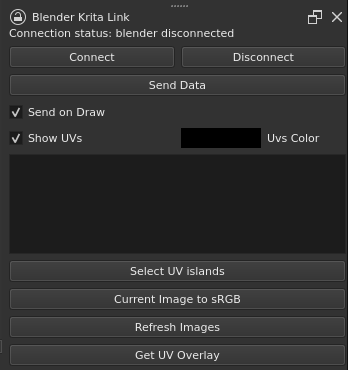
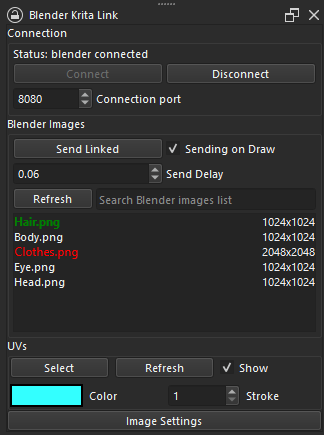
readme update, gif update, labels corrections, uv hash calculation change

diff --git a/KritaBlenderLink/ui/ImageItem.py b/KritaBlenderLink/ui/ImageItem.py
@@ -72,10 +72,10 @@ class ImageItem(QWidget):
 
         cmenu.addSection(self.image["name"])
         
-        openAct = cmenu.addAction("From Blender To new Layer")
-        linkImageAct = cmenu.addAction("Link Image")
-        unlinkImageAct = cmenu.addAction("Unlink Image")
-        openAsNewDocumentLinkAct = cmenu.addAction("Open in new Document and link")
+        openAct = cmenu.addAction("From Blender to new Layer")
+        linkImageAct = cmenu.addAction("Link image")
+        unlinkImageAct = cmenu.addAction("Unlink image")
+        openAsNewDocumentLinkAct = cmenu.addAction("Open in new document and link")
         openAsNewDocumentAct = cmenu.addAction("Open in new document")
         
         if unlinkImageAct is None or linkImageAct is None:

diff --git a/BlenderKritaLink/watch.py b/BlenderKritaLink/watch.py
@@ -27,7 +27,6 @@ class UvWatch:
             if new_hash != self.last_hash and KritaConnection.CONNECTION != None:
                 dd = getUvOverlay() 
                 print("uv data changed, sending overlay")
-                self.last_hash = new_hash
                 KritaConnection.CONNECTION.send(
                             {
                                 "type": "GET_UV_OVERLAY",
@@ -36,7 +35,9 @@ class UvWatch:
                                 "requestId": -1,
                             }
                         )
+            self.last_hash = new_hash
         finally:
+            
             ImageManager.UPDATING_IMAGE.release()
             print(interval)
             return interval

diff --git a/readme.md b/readme.md
@@ -20,11 +20,26 @@ This plugin offers a seamless way to edit Blender images in Krita without the ne
 
 The plugin consists of two parts: one for Blender and one for Krita.
 
+[download](https://github.com/heisenshark/blender-krita-link-plugin/archive/refs/heads/master.zip) the repo
+
 ### Blender Part
 - Place the `BlenderKritaLink` folder in the `blender/version/scripts/addons/` directory.
 
 ### Krita Part
 - Place `KritaBlenderLink` and `KritaBlenderDesktop.html` in the `<kritainstallation>/pykrita/` folder.
+
+### UVselectAddition Installation
+
+- download uv selection addition for your system \[windows / linux\] from [releases](https://github.com/heisenshark/blender-krita-link-plugin/releases) page
+- unpack it in your krita program directory
+
+#### manual compilation
+- Compile Krita from source using [compile the krita](https://docs.krita.org/en/untranslatable_pages/building_krita.html) or [compile the krita using docker](https://docs.krita.org/en/untranslatable_pages/building/build_krita_with_docker_on_linux.html) if you encounter issues.
+- Place `uv-select` from `cppPart` in the `krita>plugins` directory.
+- Compile again and create an AppImage as in tutorials if you are using Linux.
+- Extract libraries and action files to your Krita installation as described in this [repository](https://github.com/Acly/krita-ai-tools).
+
+UVSelectionAddition is not required for the Python plugin to work but offers additional features.
 
 ## Usage
 
@@ -32,26 +47,16 @@ The plugin consists of two parts: one for Blender and one for Krita.
 - In Krita: Activate the plugin via `Settings > Configure Krita > Python Plugin Manager`. Restart Krita and enable the dock under `Settings > Docker > Blender Krita Link`.
 - In Blender: Enable the plugin through `Edit > Preferences > Add-ons > Blender Krita Link`.
 
-### Krita Plugin Operation
-- Use the `connect` button to link to Blender, or `disconnect` to end your session. alco there is `connection port` field.
-- The plugin loads images from Blender into a list. Link an image by right-clicking it and selecting `link image`, or import a texture by clicking `from blender to new layer`. Also you can use double click to make action based on context.
-- To enable linking, ensure the Krita document is the same size as the Blender image. Set the correct color spectrum under `Image > Properties > Image Color Space` (RGB/Alpha and Profile: sRGB are recommended).
+### Plugin Operations
+- Use the `Connect` button to link to Blender, after that you can use `Disconnect` button to end your session. Also you can change `Connection port` both in Krita and Blender.
+- The plugin loads images from Blender into a list. Link an image by right-clicking it and selecting `Link image`, or import a texture by clicking `From Blender to new layer`. you open an image in new document(and link) too. Also you can use double click to make action based on context.
+- To enable linking, ensure the Krita document is the same size as the Blender image. Set the correct color spectrum under `Image > Properties > Image Color Space` (RGB/Alpha and Profile: sRGB options are recommended).
 - If "Send on draw" is activated, the image will update in Blender when you release the draw button on the canvas (and use ctrl+(Shift)+Z). You can also send data manually using the "Send Data" button.
-- Use `Refresh Images` to update image list from blender
-- Use `Get maps` to get the UV map from selected object(in blender) to krita.
+- Use `Refresh` to update image list from blender and query it by `Search Blender images list` textbox. 
+- Use `Refresh` in uvs section to get the UV map from selected object(in blender) to krita.
   - you can also change color and the stroke weight of uv maps and their visibility
+- Use `Select` in uvs section for converting selected uvs in Blender to Krita selection
 - you can also enable the auto update of uvs and images list in blender using `sync uvs and images` checkbox, with the sync interval variable.
-- You can also search the images from inside the `Search blender images list` textbox.
-- `Select islands` is also an option for converting selected uvs to krita selection
-
-## UVselectAddition Installation
-- The UV selection command requires compiling UVselectAddition.
-- Compile Krita from source using [compile the krita](https://docs.krita.org/en/untranslatable_pages/building_krita.html) or [compile the krita using docker](https://docs.krita.org/en/untranslatable_pages/building/build_krita_with_docker_on_linux.html) if you encounter issues.
-- Place `uv-select` from `cppPart` in the `krita>plugins` directory.
-- Create an AppImage as per tutorials.
-- Extract libraries and action files to your Krita installation as described in this [repository](https://github.com/Acly/krita-ai-tools).
-
-UVSelectionAddition is not required for the Python plugin to work but offers additional features.
 
 ### Disclaimer
 This plugin is highly experimental and may contain bugs. If you wish to contribute or help improve it, feel free to contact me, make pull requests, or suggest improvements.
